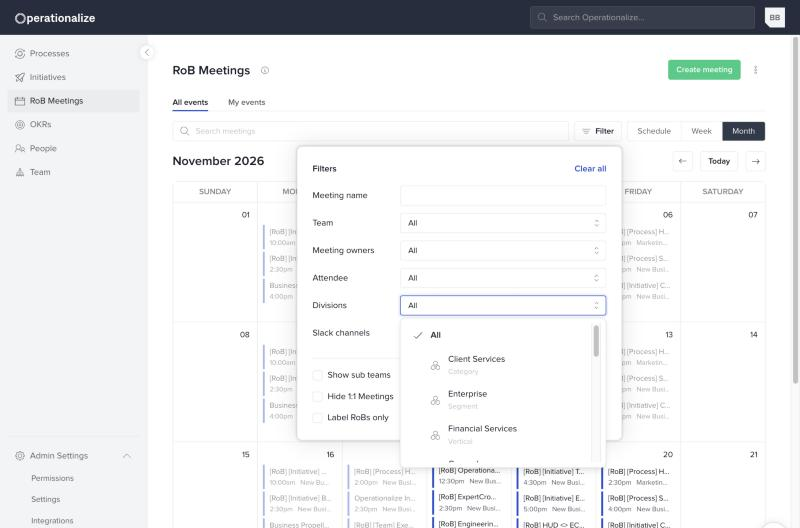
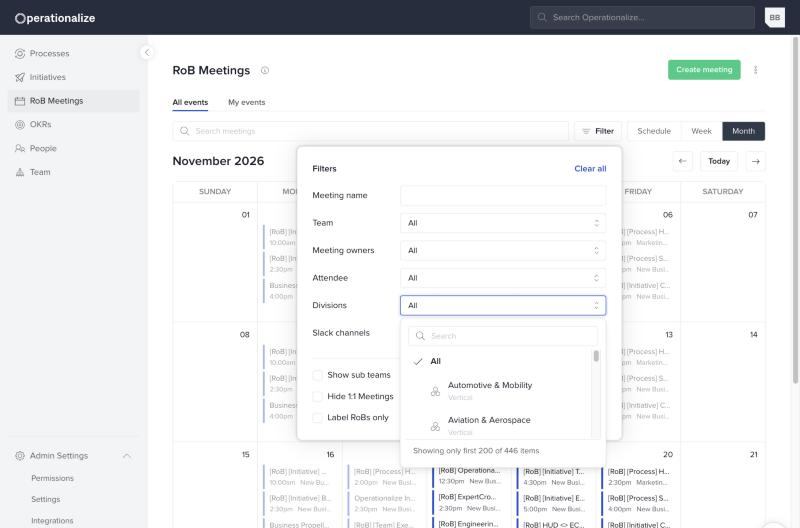
rob: a search box and a count footer on the divisions picker
From the reference shot of the real picker: a search field pinned above the
options, and a footer reading "Showing only first 200 of 446 items" when the
menu is holding back more than it shows. The cap is the product's 200; no rule
covers it, so it is read off the screenshot and says so in a comment.

The machinery was already there for Slack (ROB-VIEW-027, ten at a time), so
both menus now share one config — per-menu cap, placeholder and empty string —
rather than a second copy of it. Slack gets no footer, because the real picker
only shows that line on divisions.

The fixture had to grow for any of this to be visible: fifteen divisions never
reach a 200 cap. It is 446 now — about a hundred written out across all six
kinds (ORG-DIV-001), and the tail crossed from verticals and disciplines
rather than invented name by name, which keeps it one invention instead of
three hundred and fifty. Sorted once by level then name (ROB-VIEW-026) instead
of per repaint, and looked up through a Map rather than a linear find across
446 for each of 200 rows.

One fix the search made reachable: a no-match search was showing "No divisions
available", which is the product's string for a tenant that has none. It says
"Nothing found" now and keeps the other for the empty list.

Verified: all five filter menus open without error; divisions shows 200 + All
with the footer, "cloud" narrows to one and takes the footer away, "zzz" shows
Nothing found; Slack still ten, still no footer.

diff --git a/rob/index.html b/rob/index.html
@@ -4570,6 +4570,16 @@ html:not([data-rob-role="participant"]) #meeting-detail .md-person.is-me:not(.is
 .rob-filter-label { font: var(--type-body); color: var(--color-text); }
 .rob-filter-field { width: 100%; min-width: 0; }
 .rob-filter-field .input-select-trigger { width: 100%; }
+/* The "Showing only first N of M items" line under a capped menu. A footer
+   rather than a last row: it is about the list, not an option in it, so it
+   must not be clickable and must not scroll away with the items. */
+.rob-dd-count {
+  margin: 0;
+  padding: var(--spacing-2) var(--spacing-3);
+  border-top: 1px solid var(--color-border);
+  font: var(--type-body-sm);
+  color: var(--color-text-muted);
+}
 .rob-filter-field .dropdown-menu { max-height: 240px; overflow-y: auto; }
 /* The three switches set scope rather than narrowing a field, so they sit
    below a rule of their own. */
@@ -16306,23 +16316,67 @@ body:has([id$="-switcher"]:not([hidden])) .vr-dock { left: 264px; }
       // and ROB-VIEW-026 sorts the options by level and then by name, so it is
       // stored rather than inferred. "General" is the built-in segment every
       // tenant has, which is why it is the one name here that is not invented.
-      const DIVISIONS = [
-        { name: 'Client Services',             kind: 'Category',       level: 0 },
-        { name: 'Enterprise',                  kind: 'Segment',        level: 0 },
-        { name: 'Financial Services',          kind: 'Vertical',       level: 0 },
-        { name: 'General',                     kind: 'Segment',        level: 0 },
-        { name: 'Healthcare & Life Sciences',  kind: 'Vertical',       level: 0 },
-        { name: 'Mid-Market',                  kind: 'Segment',        level: 0 },
-        { name: 'Platform & Technology',       kind: 'Category',       level: 0 },
-        { name: 'Retail & Consumer',           kind: 'Vertical',       level: 0 },
-        { name: 'Talent Services',             kind: 'Category',       level: 0 },
-        { name: 'Advisory & Consulting',       kind: 'Service',        level: 1 },
-        { name: 'Design Practice',             kind: 'Practice',       level: 1 },
-        { name: 'Digital Health',              kind: 'Specialization', level: 1 },
-        { name: 'Engineering Practice',        kind: 'Practice',       level: 1 },
-        { name: 'Payments & Fintech',          kind: 'Specialization', level: 1 },
-        { name: 'Product Practice',            kind: 'Practice',       level: 1 },
+      const DIV_VERTICALS = [
+        'Automotive & Mobility', 'Aviation & Aerospace', 'Consumer Goods', 'Education & EdTech',
+        'Energy & Utilities', 'Financial Services', 'Gaming & Interactive', 'Government & Public Sector',
+        'Healthcare & Life Sciences', 'Hospitality & Travel', 'Industrial & Manufacturing', 'Insurance',
+        'Legal Services', 'Logistics & Supply Chain', 'Media & Entertainment', 'Nonprofit & Social Impact',
+        'Real Estate & Construction', 'Retail & Consumer', 'Telecommunications',
       ];
+
+      const DIV_SEED = [
+        // Level 0. Three categories, six kinds, and a kind only ever belongs
+        // to its own category (ORG-DIV-001): Categories & Practices hold
+        // Category / Practice / Service, Verticals hold Vertical /
+        // Specialization, Segments hold Segment.
+        ...['Enterprise', 'General', 'Mid-Market', 'Public Sector', 'SMB', 'Strategic Accounts']
+          .map(name => ({ name, kind: 'Segment', level: 0 })),
+        ...['Client Services', 'Creative Services', 'Data & Analytics', 'Delivery Operations',
+            'Engineering Services', 'Finance Operations', 'Management Consulting', 'Marketing Agency',
+            'People Operations', 'Platform & Technology', 'Revenue Operations', 'Talent Services',
+            'Technology Services', 'Trust & Safety']
+          .map(name => ({ name, kind: 'Category', level: 0 })),
+        ...DIV_VERTICALS.map(name => ({ name, kind: 'Vertical', level: 0 })),
+
+        // Level 1.
+        ...['Apps and Integrations', 'Artificial Intelligence', 'Brand Marketing', 'Cloud Services',
+            'Creative and Content Marketing', 'Custom Software Development', 'Data Engineering',
+            'Data Science', 'Design Practice', 'DevOps and Platform', 'Digital Commerce',
+            'Embedded Systems', 'Engineering Practice', 'Growth Marketing', 'Information Security',
+            'Machine Learning Operations', 'Mobile Development', 'Performance Marketing',
+            'Product Practice', 'Quality Engineering', 'Research and Insights', 'Salesforce Practice',
+            'Service Design', 'Site Reliability', 'Technical Writing', 'Web Development']
+          .map(name => ({ name, kind: 'Practice', level: 1 })),
+        ...['Advisory & Consulting', 'Architecture Review', 'Business Analysis', 'Change Management',
+            'Delivery Management', 'Fractional Leadership', 'Managed Services', 'Program Management',
+            'Resource Augmentation', 'Solution Architecture', 'Strategy Consulting', 'Talent Matching',
+            'Technical Due Diligence', 'Training & Enablement']
+          .map(name => ({ name, kind: 'Service', level: 1 })),
+        ...['Computer Vision', 'Conversational AI', 'Digital Health', 'Identity & Access',
+            'Payments & Fintech', 'Streaming Media']
+          .map(name => ({ name, kind: 'Specialization', level: 1 })),
+      ];
+
+      // The tail, crossed rather than written out. A tenant with divisions
+      // switched on runs to hundreds — the reference screenshot shows 450 —
+      // and the menu's 200-row cap and its search box only mean anything
+      // against a list that long. Writing 350 names by hand would be 350
+      // inventions; a cross of verticals and disciplines is one, and it is
+      // visible as one. Every name here is made up; only the shape is real.
+      const DIV_DISCIPLINES = [
+        'Analytics', 'Automation', 'Benchmarking', 'Compliance', 'Data Platforms',
+        'Digital Strategy', 'Experience Design', 'Forecasting', 'Integration', 'Modernization',
+        'Operations', 'Optimization', 'Personalization', 'Platform Engineering', 'Pricing',
+        'Reporting', 'Risk Modelling', 'Transformation', 'Workforce Planning',
+      ];
+
+      // ROB-VIEW-026 sorts the options by hierarchy level and then by name, so
+      // the list is sorted once here rather than at every repaint.
+      const DIVISIONS = DIV_SEED
+        .concat(DIV_VERTICALS.flatMap(v => DIV_DISCIPLINES.map(d =>
+          ({ name: v + ' ' + d, kind: 'Specialization', level: 1 }))))
+        .sort((a, b) => a.level - b.level || a.name.localeCompare(b.name));
+      const DIV_BY_NAME = new Map(DIVISIONS.map(d => [d.name, d]));
       // One icon for every division, whatever its kind. ROB-VIEW-026 says the
       // options show "the division icon and type" — one icon, and the type is
       // what tells them apart; the real app draws the same glyph down the whole
@@ -16375,6 +16429,10 @@ body:has([id$="-switcher"]:not([hidden])) .vr-dock { left: 264px; }
       };
       const INERT = new Set(['attendee', 'subteams', 'no11']);
       const SLACK_MAX = 10;   // ROB-VIEW-027
+      // The divisions picker caps its menu and says so in a footer. No rule
+      // covers the number; it is read off the real picker, which shows
+      // "Showing only first 200 of 450 items" against a tenant's full list.
+      const DIV_MAX = 200;
 
       // What an option looks like differs by filter: a division carries the
       // division icon and its kind (ROB-VIEW-026), a Slack channel its "#" or its private
@@ -16382,7 +16440,7 @@ body:has([id$="-switcher"]:not([hidden])) .vr-dock { left: 264px; }
       const optionBody = (key, opt) => {
         if (opt === 'All') return 'All';
         if (key === 'division') {
-          const d = DIVISIONS.find(x => x.name === opt);
+          const d = DIV_BY_NAME.get(opt);
           return DIV_ICON
             + `<span class="dropdown-item-text"><span class="dropdown-item-label">${esc(opt)}</span>`
             + `<span class="field-hint">${d.kind}</span></span>`;
@@ -16410,31 +16468,41 @@ body:has([id$="-switcher"]:not([hidden])) .vr-dock { left: 264px; }
         const trigger = sel.querySelector('.input-select-trigger');
         const label = (opt) => (opt === 'All' ? 'All' : key === 'slack' ? slackLabel(opt) : opt);
 
-        // The Slack menu is searchable because it has to be: fifteen channels
-        // and ten rows. A leading "#" in the search text is ignored, which is
-        // what the real box does — people type the channel the way they say it.
-        const searchable = key === 'slack';
+        // Two menus hold more than they can show, so both carry a search box:
+        // Slack offers ten at a time (ROB-VIEW-027) and divisions two hundred.
+        // Divisions also says how many it is hiding; Slack does not, because
+        // the real picker only shows that line on the divisions menu.
+        const SEARCH = {
+          slack:    { max: SLACK_MAX, hash: true,  placeholder: 'Search channels', label: 'Search channels', empty: 'No slack channels available' },
+          division: { max: DIV_MAX,   count: true, placeholder: 'Search',          label: 'Search divisions', empty: 'No divisions available' },
+        };
+        const cfg = SEARCH[key];
+        const searchable = !!cfg;
         let list = menu;
-        if (searchable) {
+        if (cfg) {
           menu.innerHTML = '<div class="dropdown-search"><div class="input-icon input-icon-left">'
             + '<svg class="icon input-icon-glyph"><use href="#i-search"/></svg>'
-            + '<input class="input" type="search" placeholder="Search channels" aria-label="Search channels" autocomplete="off" data-rob-f-search />'
+            + `<input class="input" type="search" placeholder="${cfg.placeholder}" aria-label="${cfg.label}" autocomplete="off" data-rob-f-search />`
             + '</div></div><div class="dropdown-list"></div>'
-            + '<p class="dropdown-empty" hidden>No slack channels available</p>';
-          list = menu.querySelector('.dropdown-list');
-        } else if (key === 'division') {
-          menu.innerHTML = '<div class="dropdown-list"></div>'
-            + '<p class="dropdown-empty" hidden>No divisions available</p>';
+            + `<p class="dropdown-empty" hidden>${cfg.empty}</p>`
+            + (cfg.count ? '<p class="rob-dd-count" role="status" hidden></p>' : '');
           list = menu.querySelector('.dropdown-list');
         }
         const empty = menu.querySelector('.dropdown-empty');
+        const count = menu.querySelector('.rob-dd-count');
 
         const paint = (q) => {
           let opts = OPTIONS[key] || [];
-          if (searchable) {
-            const term = String(q || '').replace(/^#/, '').trim().toLowerCase();
-            if (term) opts = opts.filter(o => o.includes(term));
-            opts = opts.slice(0, SLACK_MAX);
+          let matched = opts.length;
+          if (cfg) {
+            // A leading "#" is ignored on the Slack box, which is what the
+            // real one does — people type the channel the way they say it.
+            let term = String(q || '');
+            if (cfg.hash) term = term.replace(/^#/, '');
+            term = term.trim().toLowerCase();
+            if (term) opts = opts.filter(o => o.toLowerCase().includes(term));
+            matched = opts.length;
+            opts = opts.slice(0, cfg.max);
           }
           list.innerHTML = '';
           ['All', ...opts].forEach(opt => {
@@ -16453,7 +16521,19 @@ body:has([id$="-switcher"]:not([hidden])) .vr-dock { left: 264px; }
             });
             list.appendChild(b);
           });
-          if (empty) empty.hidden = opts.length > 0;
+          // Two different nothings: a tenant with no divisions at all, which
+          // is the product's own string (TOP-6373), and a search that matched
+          // none of the ones there are.
+          if (empty) {
+            empty.hidden = opts.length > 0;
+            empty.textContent = (cfg && String(q || '').trim()) ? 'Nothing found' : cfg.empty;
+          }
+          // Only when something is actually being withheld: a search that
+          // narrows the list under the cap takes the line away with it.
+          if (count) {
+            count.hidden = matched <= opts.length;
+            if (!count.hidden) count.textContent = `Showing only first ${opts.length} of ${matched} items`;
+          }
         };
         paint('');
         if (searchable) {
@@ -16465,7 +16545,7 @@ body:has([id$="-switcher"]:not([hidden])) .vr-dock { left: 264px; }
           e.stopPropagation();
           const open = menu.hidden;
           fWrap.querySelectorAll('[data-rob-f-options]').forEach(m => { if (m !== menu) m.hidden = true; });
-          // A menu opens on its first ten again, not on whatever was last
+          // A menu opens on its first page again, not on whatever was last
           // typed into it: the search text belongs to the act of searching.
           if (open && searchable) { menu.querySelector('[data-rob-f-search]').value = ''; paint(''); }
           menu.hidden = !open;

diff --git a/rob/CHANGELOG.md b/rob/CHANGELOG.md
@@ -129,7 +129,7 @@ its start), cannot arise here — the grid stops at 8 pm.
 
 **Status** · Delivered — the behaviour follows the rules. The fixture data is invented and does not resemble the tenant's, which is still [open](#open-and-worth-revisiting).
 
-![The Divisions filter open: each option carries its kind's icon and, under the name, the kind itself as a hint line.](_shots/2026-11-10-divisions-and-slack.png)
+![The Divisions filter open: a search box above the options, each one carrying the division icon and its kind as a hint line, and a footer saying how many of the 446 divisions are being shown.](_shots/2026-11-10-divisions-and-slack.png)
 
 Two of the six filter controls had been built and wired to nothing. They narrow
 the calendar now, which meant inventing the data they narrow by — and that is
